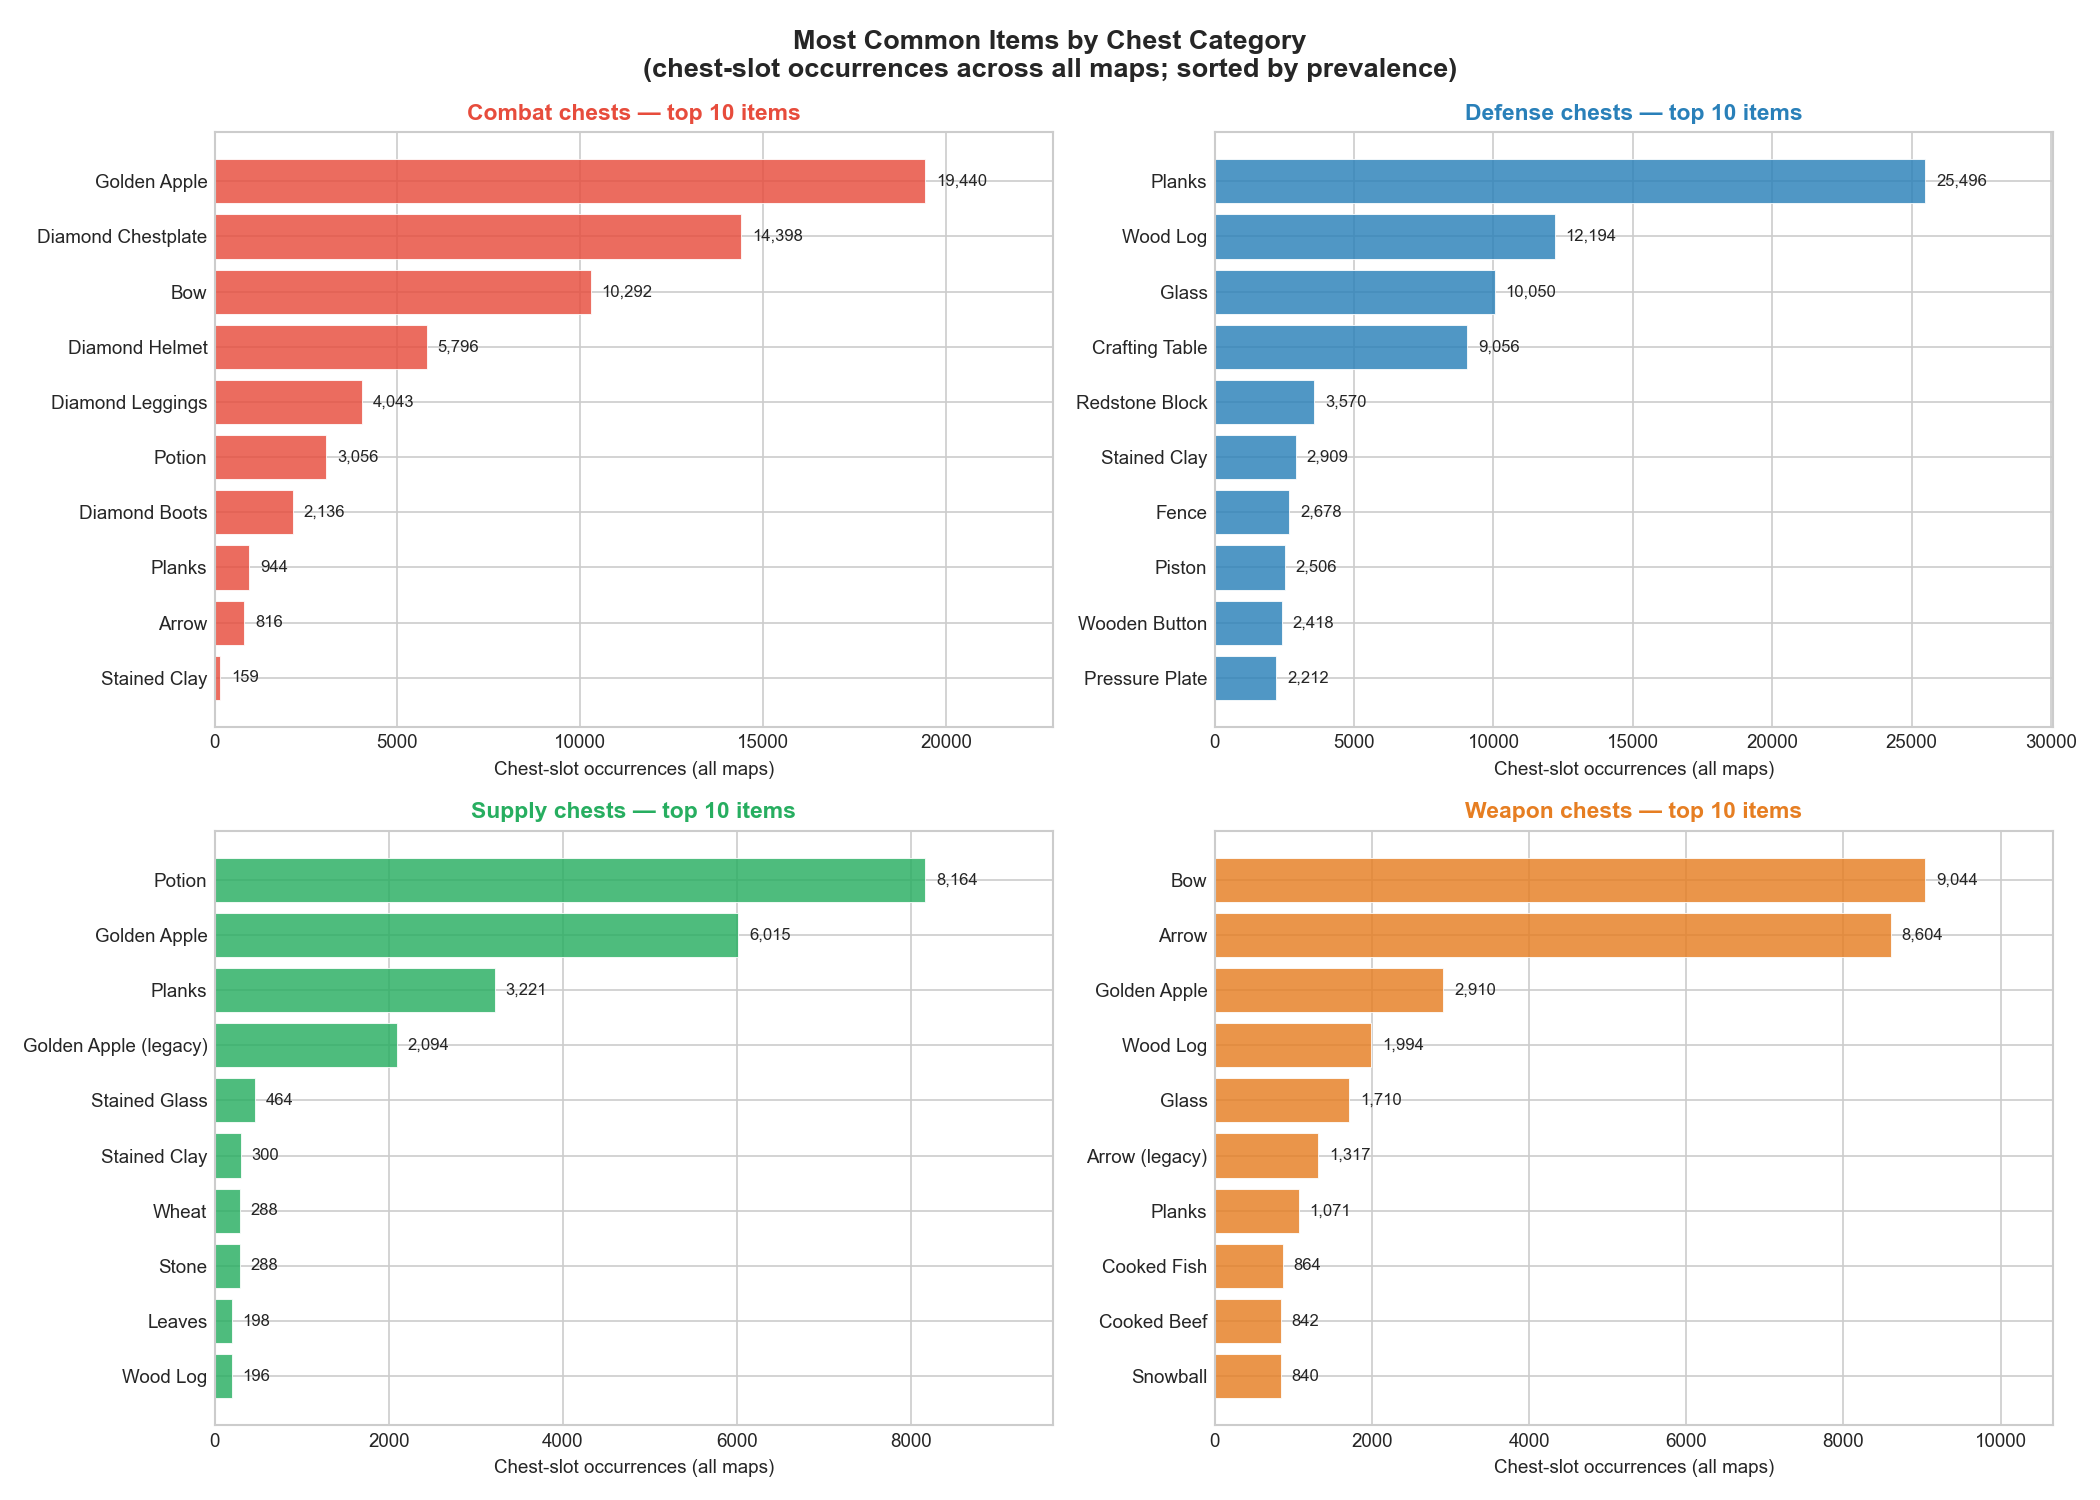
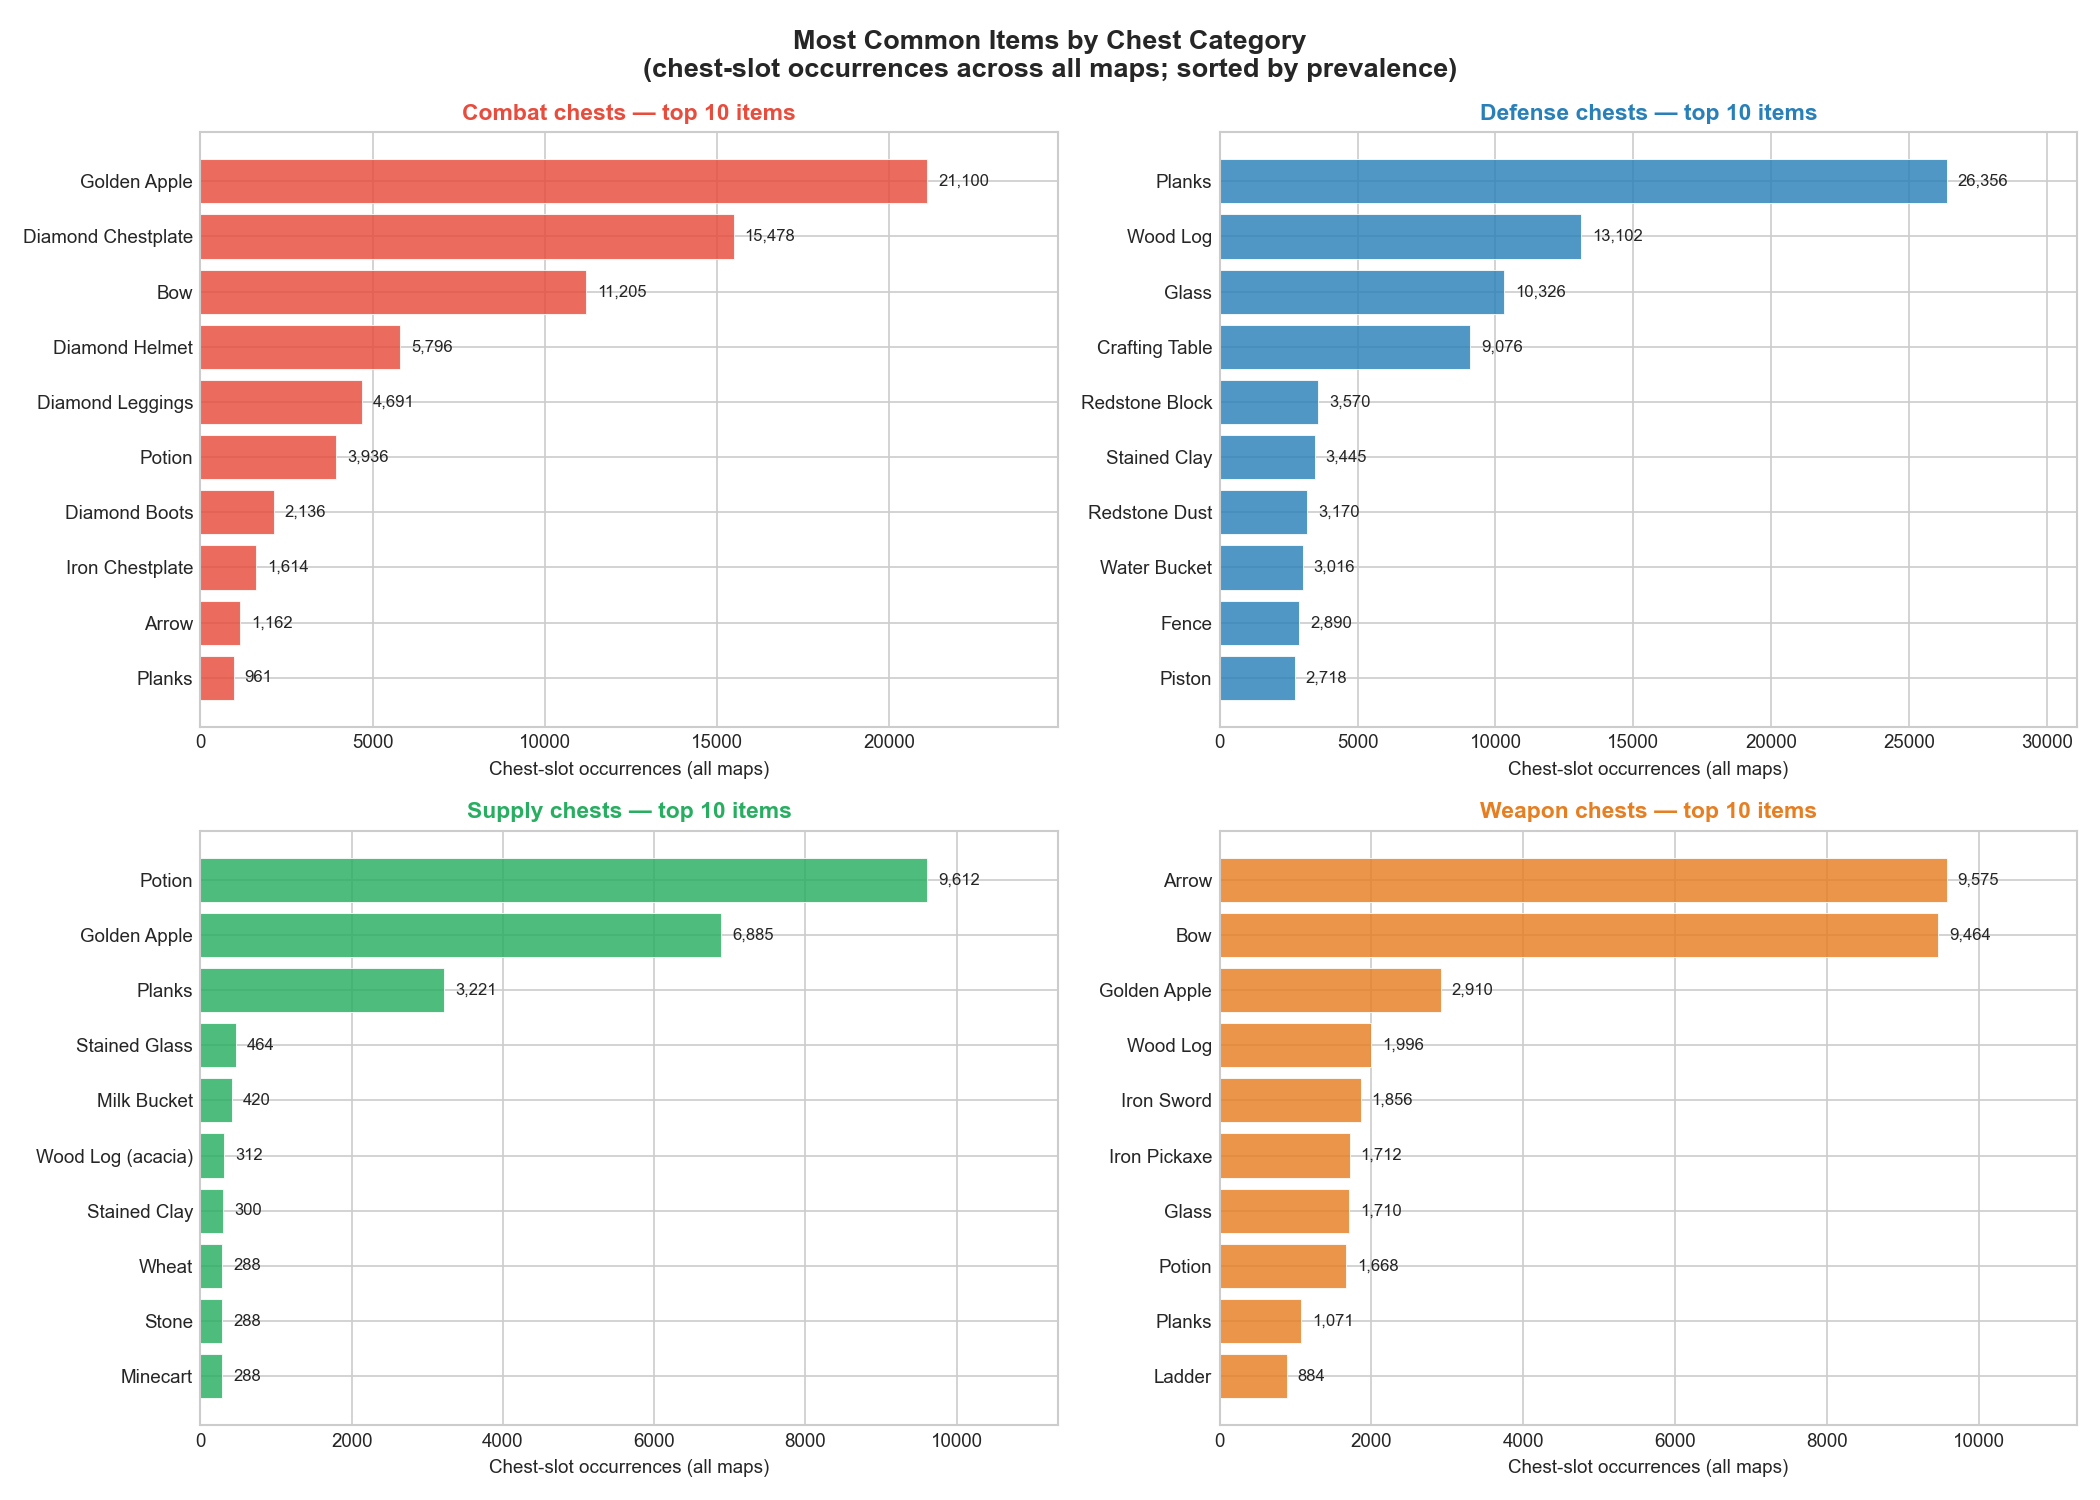
feat(scripts): update figure data to post-normalization counts
Regenerate Figure 5 (top items per category) with data from the
normalized database. Key changes vs previous version:
- All legacy numeric IDs now merged into their canonical counterparts
- Combat: diamond chestplate/leggings counts up after reclassification
  of formerly misclassified armor chests; water bucket surfaces in defense
- Weapon: arrow overtakes bow at top; iron sword + iron pickaxe visible
- Supply: armor-bearing chests correctly moved to combat, counts adjusted

diff --git a/scripts/generate_chest_figures.py b/scripts/generate_chest_figures.py
@@ -467,57 +467,58 @@ print("Saved defense_material_composition.png")
 # ---------------------------------------------------------------------------
 # Data: top 10 items per category sorted by chest_slots (number of slots
 # across all maps, i.e. how universally the item appears in that category).
-# Item names translated from Minecraft 1.8.9 IDs.  "legacy" entries are the
-# old numeric IDs (e.g. 322 = golden_apple) that appear on older maps.
+# Item names translated from Minecraft 1.8.9 IDs.  Legacy numeric IDs (e.g.
+# 322 = golden_apple, 262 = arrow) are merged into their canonical equivalents
+# before ranking so that older maps and newer maps are counted together.
 
 CATEGORY_ITEMS = {
     'combat': [
-        ('Golden Apple',        19440),
-        ('Diamond Chestplate',  14398),
-        ('Bow',                 10292),
+        ('Golden Apple',        21100),
+        ('Diamond Chestplate',  15478),
+        ('Bow',                 11205),
         ('Diamond Helmet',       5796),
-        ('Diamond Leggings',     4043),
-        ('Potion',               3056),
+        ('Diamond Leggings',     4691),
+        ('Potion',               3936),
         ('Diamond Boots',        2136),
-        ('Planks',                 944),
-        ('Arrow',                  816),
-        ('Stained Clay',           159),
+        ('Iron Chestplate',      1614),
+        ('Arrow',                1162),
+        ('Planks',                961),
     ],
     'defense': [
-        ('Planks',              25496),
-        ('Wood Log',            12194),
-        ('Glass',               10050),
-        ('Crafting Table',       9056),
+        ('Planks',              26356),
+        ('Wood Log',            13102),
+        ('Glass',               10326),
+        ('Crafting Table',       9076),
         ('Redstone Block',       3570),
-        ('Stained Clay',         2909),
-        ('Fence',                2678),
-        ('Piston',               2506),
-        ('Wooden Button',        2418),
-        ('Pressure Plate',       2212),
+        ('Stained Clay',         3445),
+        ('Redstone Dust',        3170),
+        ('Water Bucket',         3016),
+        ('Fence',                2890),
+        ('Piston',               2718),
     ],
     'supply': [
-        ('Potion',               8164),
-        ('Golden Apple',         6015),
+        ('Potion',               9612),
+        ('Golden Apple',         6885),
         ('Planks',               3221),
-        ('Golden Apple (legacy)',  2094),
-        ('Stained Glass',          464),
-        ('Stained Clay',           300),
-        ('Wheat',                  288),
-        ('Stone',                  288),
-        ('Leaves',                 198),
-        ('Wood Log',               196),
+        ('Stained Glass',         464),
+        ('Milk Bucket',           420),
+        ('Wood Log (acacia)',      312),
+        ('Stained Clay',          300),
+        ('Wheat',                 288),
+        ('Stone',                 288),
+        ('Minecart',              288),
     ],
     'weapon': [
-        ('Bow',                  9044),
-        ('Arrow',                8604),
+        ('Arrow',                9575),
+        ('Bow',                  9464),
         ('Golden Apple',         2910),
-        ('Wood Log',             1994),
+        ('Wood Log',             1996),
+        ('Iron Sword',           1856),
+        ('Iron Pickaxe',         1712),
         ('Glass',                1710),
-        ('Arrow (legacy)',       1317),
+        ('Potion',               1668),
         ('Planks',               1071),
-        ('Cooked Fish',            864),
-        ('Cooked Beef',            842),
-        ('Snowball',               840),
+        ('Ladder',                884),
     ],
 }
 
